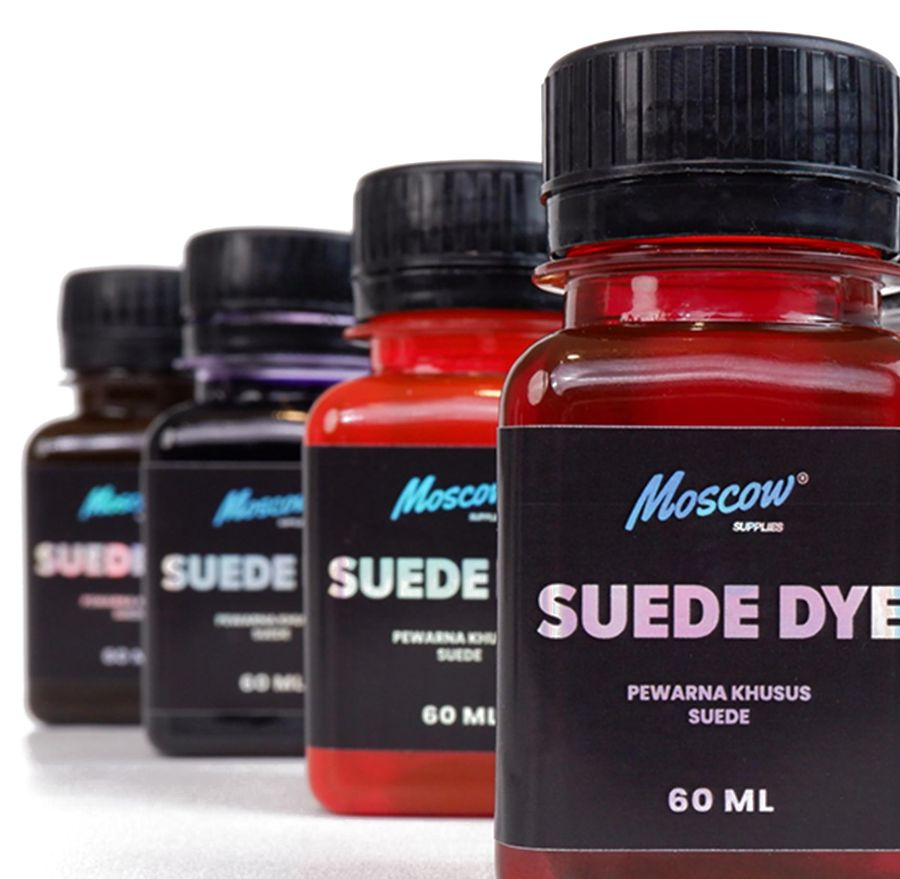
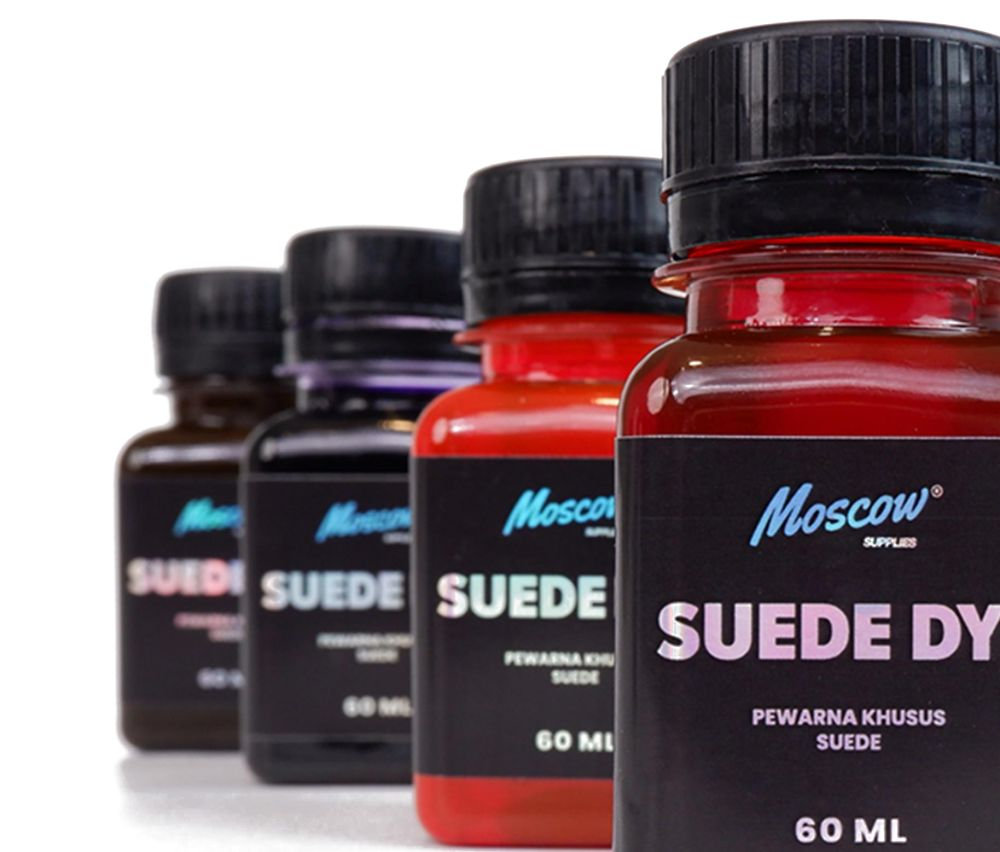
Halaman masuk: komposisi foto Suede Dye dan lengkungan sama dengan contoh
Claude-Session: https://claude.ai/code/session_0145m6qzcjNUE3mvUSgysKgi

diff --git a/moscow.css b/moscow.css
@@ -43,9 +43,9 @@ button, input, select, textarea { font:inherit; color:inherit; }
 #mMasuk .k2 { left:31%; top:6%; width:66%; height:84%; transform:rotateY(-12deg) rotateX(5deg); transform-origin:left center; }
 #mMasuk .mm-kanan { position:relative; display:flex; flex-direction:column; align-items:center; justify-content:flex-start; padding:48px 32px 28px;
   background:#FFFFFF; overflow:hidden; }
-#mMasuk .mm-kanan::after { content:''; position:absolute; right:-200px; bottom:-260px; width:520px; height:520px; border-radius:50%;
-  border:56px solid #EEF6FB; pointer-events:none; }
-#mMasuk .kotak { position:relative; z-index:1; width:100%; max-width:470px; margin:auto 0; }
+#mMasuk .mm-kanan::after { content:''; position:absolute; z-index:0; right:-170px; bottom:-330px; width:660px; height:660px; border-radius:50%;
+  border:12px solid #E4EFFA; pointer-events:none; }
+#mMasuk .kotak { position:relative; z-index:2; width:100%; max-width:470px; margin:auto 0; }
 #mMasuk .lg { display:block; width:min(320px, 80%); height:110px; margin:0 auto 40px; background:url(logo.png) center/contain no-repeat; mix-blend-mode:multiply; }
 #mMasuk .ey { display:block; font-size:13px; font-weight:700; letter-spacing:.18em; color:var(--abu); }
 #mMasuk h1 { font-size:clamp(32px, 3.3vw, 48px); line-height:1.08; font-weight:800; letter-spacing:-.02em; margin:8px 0 12px; color:var(--tinta); }
@@ -238,8 +238,8 @@ html.m-m .cd { padding:14px; margin-bottom:12px; }
   #mSide .grp { margin:18px 14px 6px; padding-top:16px; border-top:1px solid var(--navy3); font-size:12px; letter-spacing:.1em; }
 
 /* Foto produk samar di panel kanan halaman masuk / selamat datang (laptop & tablet lebar) */
-#mMasuk .mm-produk { position:absolute; right:0; bottom:0; z-index:0; height:54%; aspect-ratio:900/879; pointer-events:none;
-  background:url(produk-masuk.jpg) right bottom / cover no-repeat; opacity:.62;
-  -webkit-mask-image:linear-gradient(to right, transparent 0%, rgba(0,0,0,.35) 35%, #000 70%), linear-gradient(to bottom, transparent 0%, #000 22%);
-  -webkit-mask-composite:source-in; mask-image:linear-gradient(to right, transparent 0%, rgba(0,0,0,.35) 35%, #000 70%), linear-gradient(to bottom, transparent 0%, #000 22%); mask-composite:intersect; }
+#mMasuk .mm-produk { position:absolute; right:0; bottom:0; z-index:1; height:55%; aspect-ratio:1000/852; pointer-events:none;
+  background:url(produk-masuk.jpg) right bottom / cover no-repeat; opacity:.72; filter:saturate(.9) brightness(1.04);
+  -webkit-mask-image:linear-gradient(to right, transparent 0%, rgba(0,0,0,.28) 30%, rgba(0,0,0,.55) 60%, #000 82%), linear-gradient(to bottom, transparent 0%, #000 18%);
+  -webkit-mask-composite:source-in; mask-image:linear-gradient(to right, transparent 0%, rgba(0,0,0,.28) 30%, rgba(0,0,0,.55) 60%, #000 82%), linear-gradient(to bottom, transparent 0%, #000 18%); mask-composite:intersect; }
 @media (max-width: 899px) { #mMasuk .mm-produk { display:none; } }

diff --git a/kasir.html b/kasir.html
@@ -14,7 +14,7 @@
 <link rel="preconnect" href="https://fonts.googleapis.com">
 <link rel="preconnect" href="https://fonts.gstatic.com" crossorigin>
 <link href="https://fonts.googleapis.com/css2?family=Plus+Jakarta+Sans:wght@400;500;600;700;800&display=swap" rel="stylesheet">
-<link rel="stylesheet" href="moscow.css?v=20">
+<link rel="stylesheet" href="moscow.css?v=21">
 <style>
   :root { --tinta:#0F1B2A; --abu:#5A6677; --garis:#E2E7EE; --kabut:#F4F7FA; --langit:#1E78A8; --langit-tua:#145A80; --hijau:#146C43; --bata:#B42318; --kuning:#9A5B00; --jingga:#B45309; }
   .petunjuk { font-size:13px; color:var(--abu); padding:6px 2px; }

diff --git a/kendali.html b/kendali.html
@@ -15,7 +15,7 @@
 <link rel="preconnect" href="https://fonts.googleapis.com">
 <link rel="preconnect" href="https://fonts.gstatic.com" crossorigin>
 <link href="https://fonts.googleapis.com/css2?family=Plus+Jakarta+Sans:wght@400;500;600;700;800&display=swap" rel="stylesheet">
-<link rel="stylesheet" href="moscow.css?v=20">
+<link rel="stylesheet" href="moscow.css?v=21">
 <style>
   .bulan { display:flex; align-items:center; gap:10px; margin:0 0 6px; flex-wrap:wrap; }
   .bulan button { width:38px; height:38px; border-radius:12px; border:1px solid var(--garis); background:#fff; cursor:pointer; font-size:18px; font-weight:700; }

diff --git a/stok.html b/stok.html
@@ -14,7 +14,7 @@
 <link rel="preconnect" href="https://fonts.googleapis.com">
 <link rel="preconnect" href="https://fonts.gstatic.com" crossorigin>
 <link href="https://fonts.googleapis.com/css2?family=Plus+Jakarta+Sans:wght@400;500;600;700;800&display=swap" rel="stylesheet">
-<link rel="stylesheet" href="moscow.css?v=20">
+<link rel="stylesheet" href="moscow.css?v=21">
 <style>
   .tl { font-size:13px; color:var(--abu); margin:0 0 14px; }
   .kat { font-size:12px; font-weight:800; letter-spacing:.06em; color:var(--abu); padding:14px 0 6px; border-bottom:1px solid var(--garis); text-transform:none; }

diff --git a/index.html b/index.html
@@ -14,7 +14,7 @@
 <link rel="preconnect" href="https://fonts.googleapis.com">
 <link rel="preconnect" href="https://fonts.gstatic.com" crossorigin>
 <link href="https://fonts.googleapis.com/css2?family=Plus+Jakarta+Sans:wght@400;500;600;700;800&display=swap" rel="stylesheet">
-<link rel="stylesheet" href="moscow.css?v=20">
+<link rel="stylesheet" href="moscow.css?v=21">
 <style>
   #pilih { display:grid; gap:8px; margin-top:4px; max-height:none; }
   #pilih a { display:flex; align-items:center; justify-content:space-between; gap:10px; padding:13px 14px; border:1px solid var(--garis);

diff --git a/master.html b/master.html
@@ -15,7 +15,7 @@
 <link rel="preconnect" href="https://fonts.googleapis.com">
 <link rel="preconnect" href="https://fonts.gstatic.com" crossorigin>
 <link href="https://fonts.googleapis.com/css2?family=Plus+Jakarta+Sans:wght@400;500;600;700;800&display=swap" rel="stylesheet">
-<link rel="stylesheet" href="moscow.css?v=20">
+<link rel="stylesheet" href="moscow.css?v=21">
 <style>
   .ak { display:flex; flex-wrap:wrap; gap:20px; align-items:stretch; }
   .gr { flex:3 1 460px; min-width:0; display:flex; flex-direction:column; gap:8px; }

diff --git a/tentang.html b/tentang.html
@@ -6,7 +6,7 @@
 <title>Aplikasi Moscow</title>
 <meta name="description" content="Aplikasi Moscow: aplikasi kerja internal Moscow Supplies untuk stok, penjualan, kasir toko, produksi, dan laporan usaha.">
 <link rel="icon" href="icon-192.png">
-<link rel="stylesheet" href="moscow.css?v=20">
+<link rel="stylesheet" href="moscow.css?v=21">
 <style>
   body { background:var(--navy); color:#fff; min-height:100vh; display:flex; align-items:center; }
   .hal { max-width:560px; margin:0 auto; padding:40px 20px; }

diff --git a/consignment.html b/consignment.html
@@ -14,7 +14,7 @@
 <link rel="preconnect" href="https://fonts.googleapis.com">
 <link rel="preconnect" href="https://fonts.gstatic.com" crossorigin>
 <link href="https://fonts.googleapis.com/css2?family=Plus+Jakarta+Sans:wght@400;500;600;700;800&display=swap" rel="stylesheet">
-<link rel="stylesheet" href="moscow.css?v=20">
+<link rel="stylesheet" href="moscow.css?v=21">
 <style>
   #mIsi { padding:0 !important; }
   #mIsi > section[data-bagian="isi"] { padding:0 !important; margin:0 !important; }

diff --git a/form.html b/form.html
@@ -12,7 +12,7 @@
 <link rel="preconnect" href="https://fonts.googleapis.com">
 <link rel="preconnect" href="https://fonts.gstatic.com" crossorigin>
 <link href="https://fonts.googleapis.com/css2?family=Plus+Jakarta+Sans:wght@400;500;600;700;800&display=swap" rel="stylesheet">
-<link rel="stylesheet" href="moscow.css?v=20">
+<link rel="stylesheet" href="moscow.css?v=21">
 <style>
   #mIsi { padding:0 !important; }
   #mIsi > section[data-bagian="isi"] { padding:0 !important; margin:0 !important; }

diff --git a/privasi.html b/privasi.html
@@ -6,7 +6,7 @@
 <title>Kebijakan Privasi Aplikasi Moscow</title>
 <meta name="description" content="Kebijakan privasi Aplikasi Moscow, aplikasi kerja internal Moscow Supplies.">
 <link rel="icon" href="icon-192.png">
-<link rel="stylesheet" href="moscow.css?v=20">
+<link rel="stylesheet" href="moscow.css?v=21">
 <style>
   .hal { max-width:720px; margin:0 auto; padding:28px 18px 56px; }
   .kepala { background:var(--navy); color:#fff; }

diff --git a/sw.js b/sw.js
@@ -1,5 +1,5 @@
 // Menyimpan tampilan pembuka saja. Data sistem selalu diambil langsung dari Google.
-var CACHE = 'moscow-v20';
+var CACHE = 'moscow-v21';
 var FILES = ['./', 'lama.html', 'manifest.webmanifest', 'icon-192.png', 'icon-512.png'];
 
 self.addEventListener('install', function (e) {
